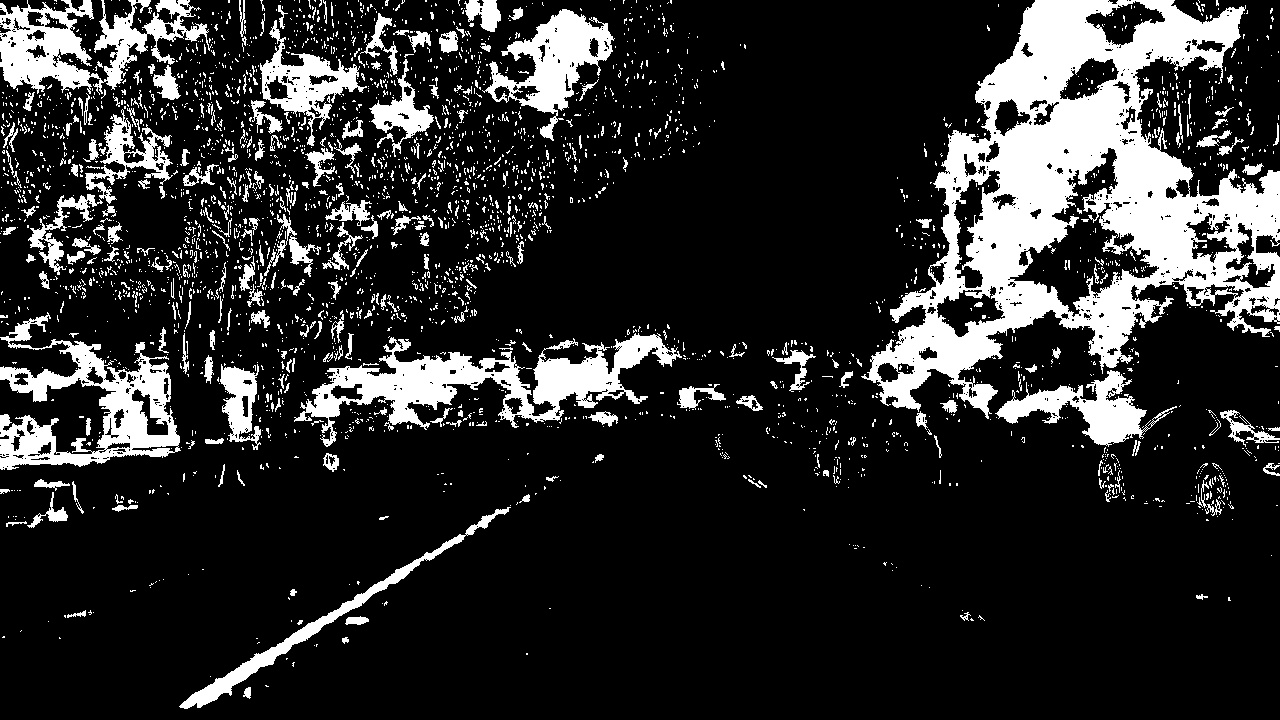
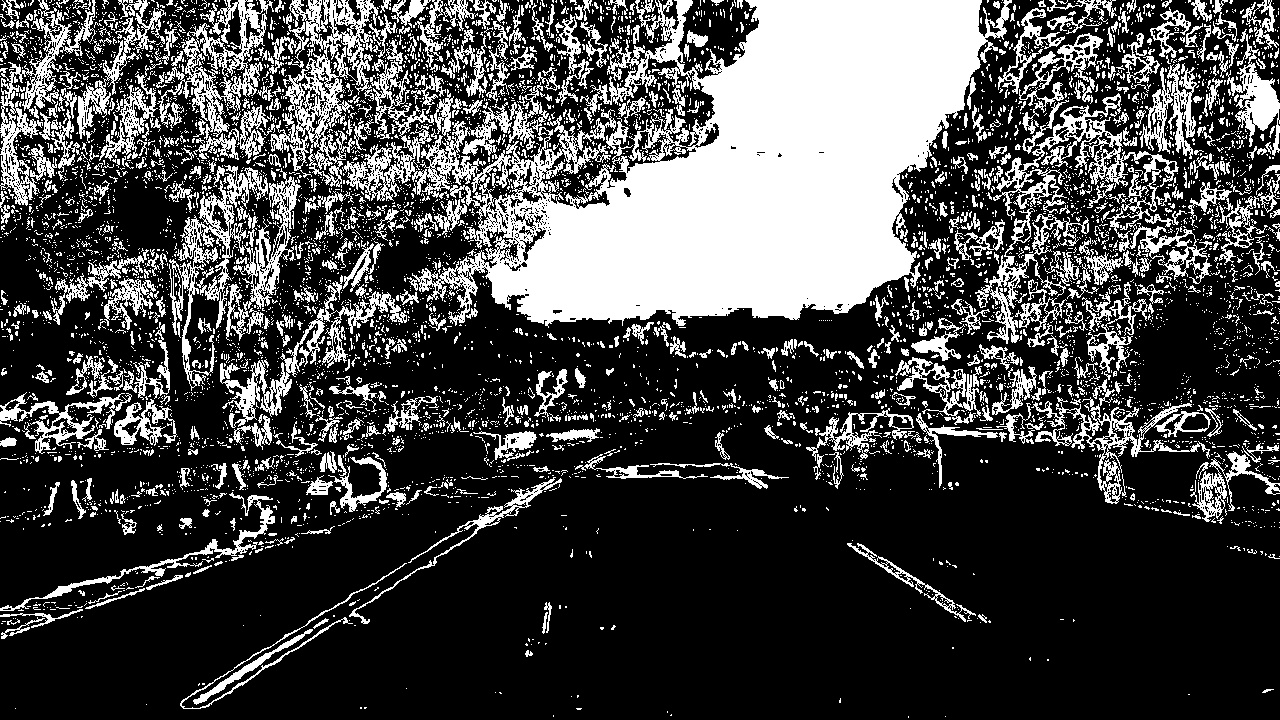
Fine-tuning the parameters

diff --git a/Main.py b/Main.py
@@ -73,8 +73,13 @@ def color_gradient(img):
     # Convert to HLS color space and separate the S channel
     # Note: img is the undistorted image
     hls = cv2.cvtColor(img, cv2.COLOR_RGB2HLS)
-    s_channel = hls[:, :, 2]
     h_channel = hls[:, :, 0]
+    s_channel = hls[:, :, 2]
+
+    s_channel *= 2
+    #rgb = cv2.cvtColor(hls, cv2.COLOR_HLS2RGB)
+    #cv2.imwrite('color.jpg', rgb)
+    #exit(0)
 
     # Grayscale image
     # NOTE: we already saw that standard grayscaling lost color information for the lane lines
@@ -87,19 +92,19 @@ def color_gradient(img):
     scaled_sobel = np.uint8(255 * abs_sobelx / np.max(abs_sobelx))
 
     # Threshold x gradient
-    thresh_min = 50 #30
+    thresh_min = 20 #30
     thresh_max = 100 #100
     sxbinary = np.zeros_like(scaled_sobel)
     sxbinary[(scaled_sobel >= thresh_min) & (scaled_sobel <= thresh_max)] = 1
 
     # Threshold saturation channel
-    s_thresh_min = 140 #140
-    s_thresh_max = 255
+    s_thresh_min = 170 #140
+    s_thresh_max = 240
     s_binary = np.zeros_like(s_channel)
     s_binary[(s_channel >= s_thresh_min) & (s_channel <= s_thresh_max)] = 1
 
     # Threshold hue channel
-    h_thresh_min = 90 #90
+    h_thresh_min = 50 #90
     h_thresh_max = 100 #100
     h_binary = np.zeros_like(h_channel)
     h_binary[(h_channel >= h_thresh_min) & (h_channel <= h_thresh_max)] = 1
@@ -111,7 +116,7 @@ def color_gradient(img):
     # Combine the two binary thresholds
     combined_binary = np.zeros_like(sxbinary)
     #combined_binary[(s_binary == 1) | (sxbinary == 1)] = 1
-    combined_binary[(h_binary == 1) | (sxbinary == 1)] = 1
+    combined_binary[(s_binary == 1) | (sxbinary == 1)] = 1
 
     return combined_binary
 
@@ -161,6 +166,10 @@ def find_lane_pixels(binary_warped):
     left_lane_inds = []
     right_lane_inds = []
 
+    # TODO
+    average_shift_left = 0
+    average_shift_right = 0
+
     # Step through the windows one by one
     for window in range(nwindows):
         # Identify window boundaries in x and y (and right and left)
@@ -193,10 +202,16 @@ def find_lane_pixels(binary_warped):
         ### TO-DO: If you found > minpix pixels, recenter next window ###
         ### (`right` or `leftx_current`) on their mean position ###
         if len(good_left_inds) > minpix:
-            print('Length: {}'.format(len(good_left_inds)))
+            #print('Length: {}'.format(len(good_left_inds)))
             leftx_current = np.int(np.mean(nonzerox[good_left_inds]))
+        else:
+            leftx_current += average_shift_left
+            print('Apply last left')
         if len(good_right_inds) > minpix:
             rightx_current = np.int(np.mean(nonzerox[good_right_inds]))
+        else:
+            rightx_current += average_shift_right
+            print('Apply last right')
 
 
 
